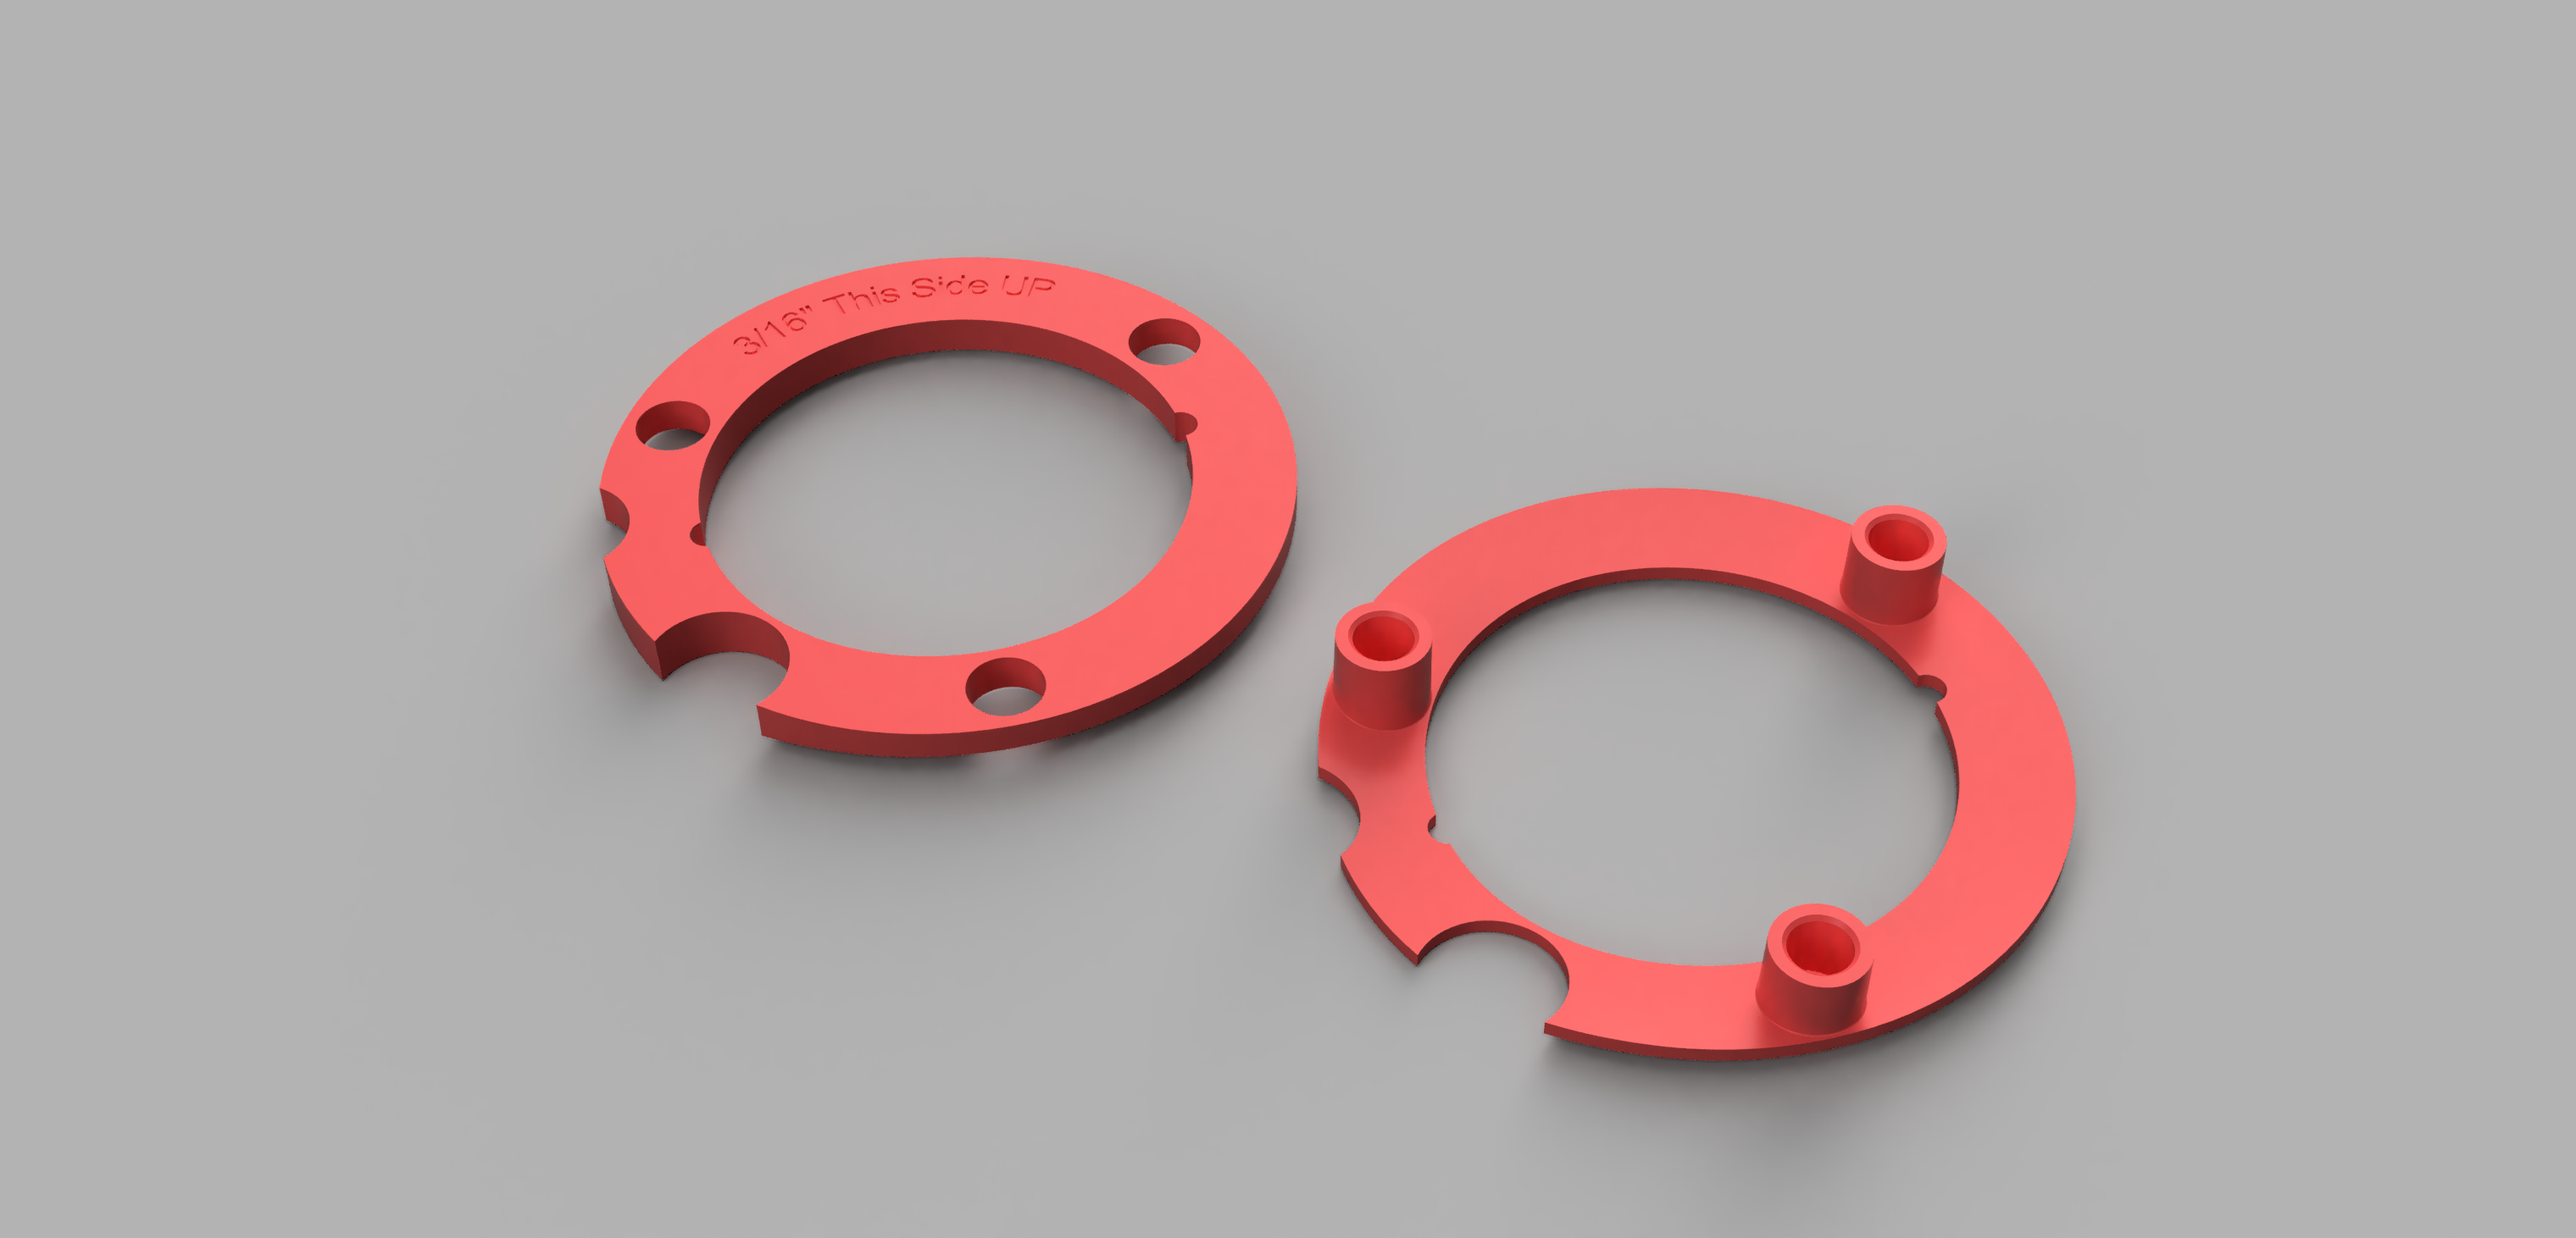
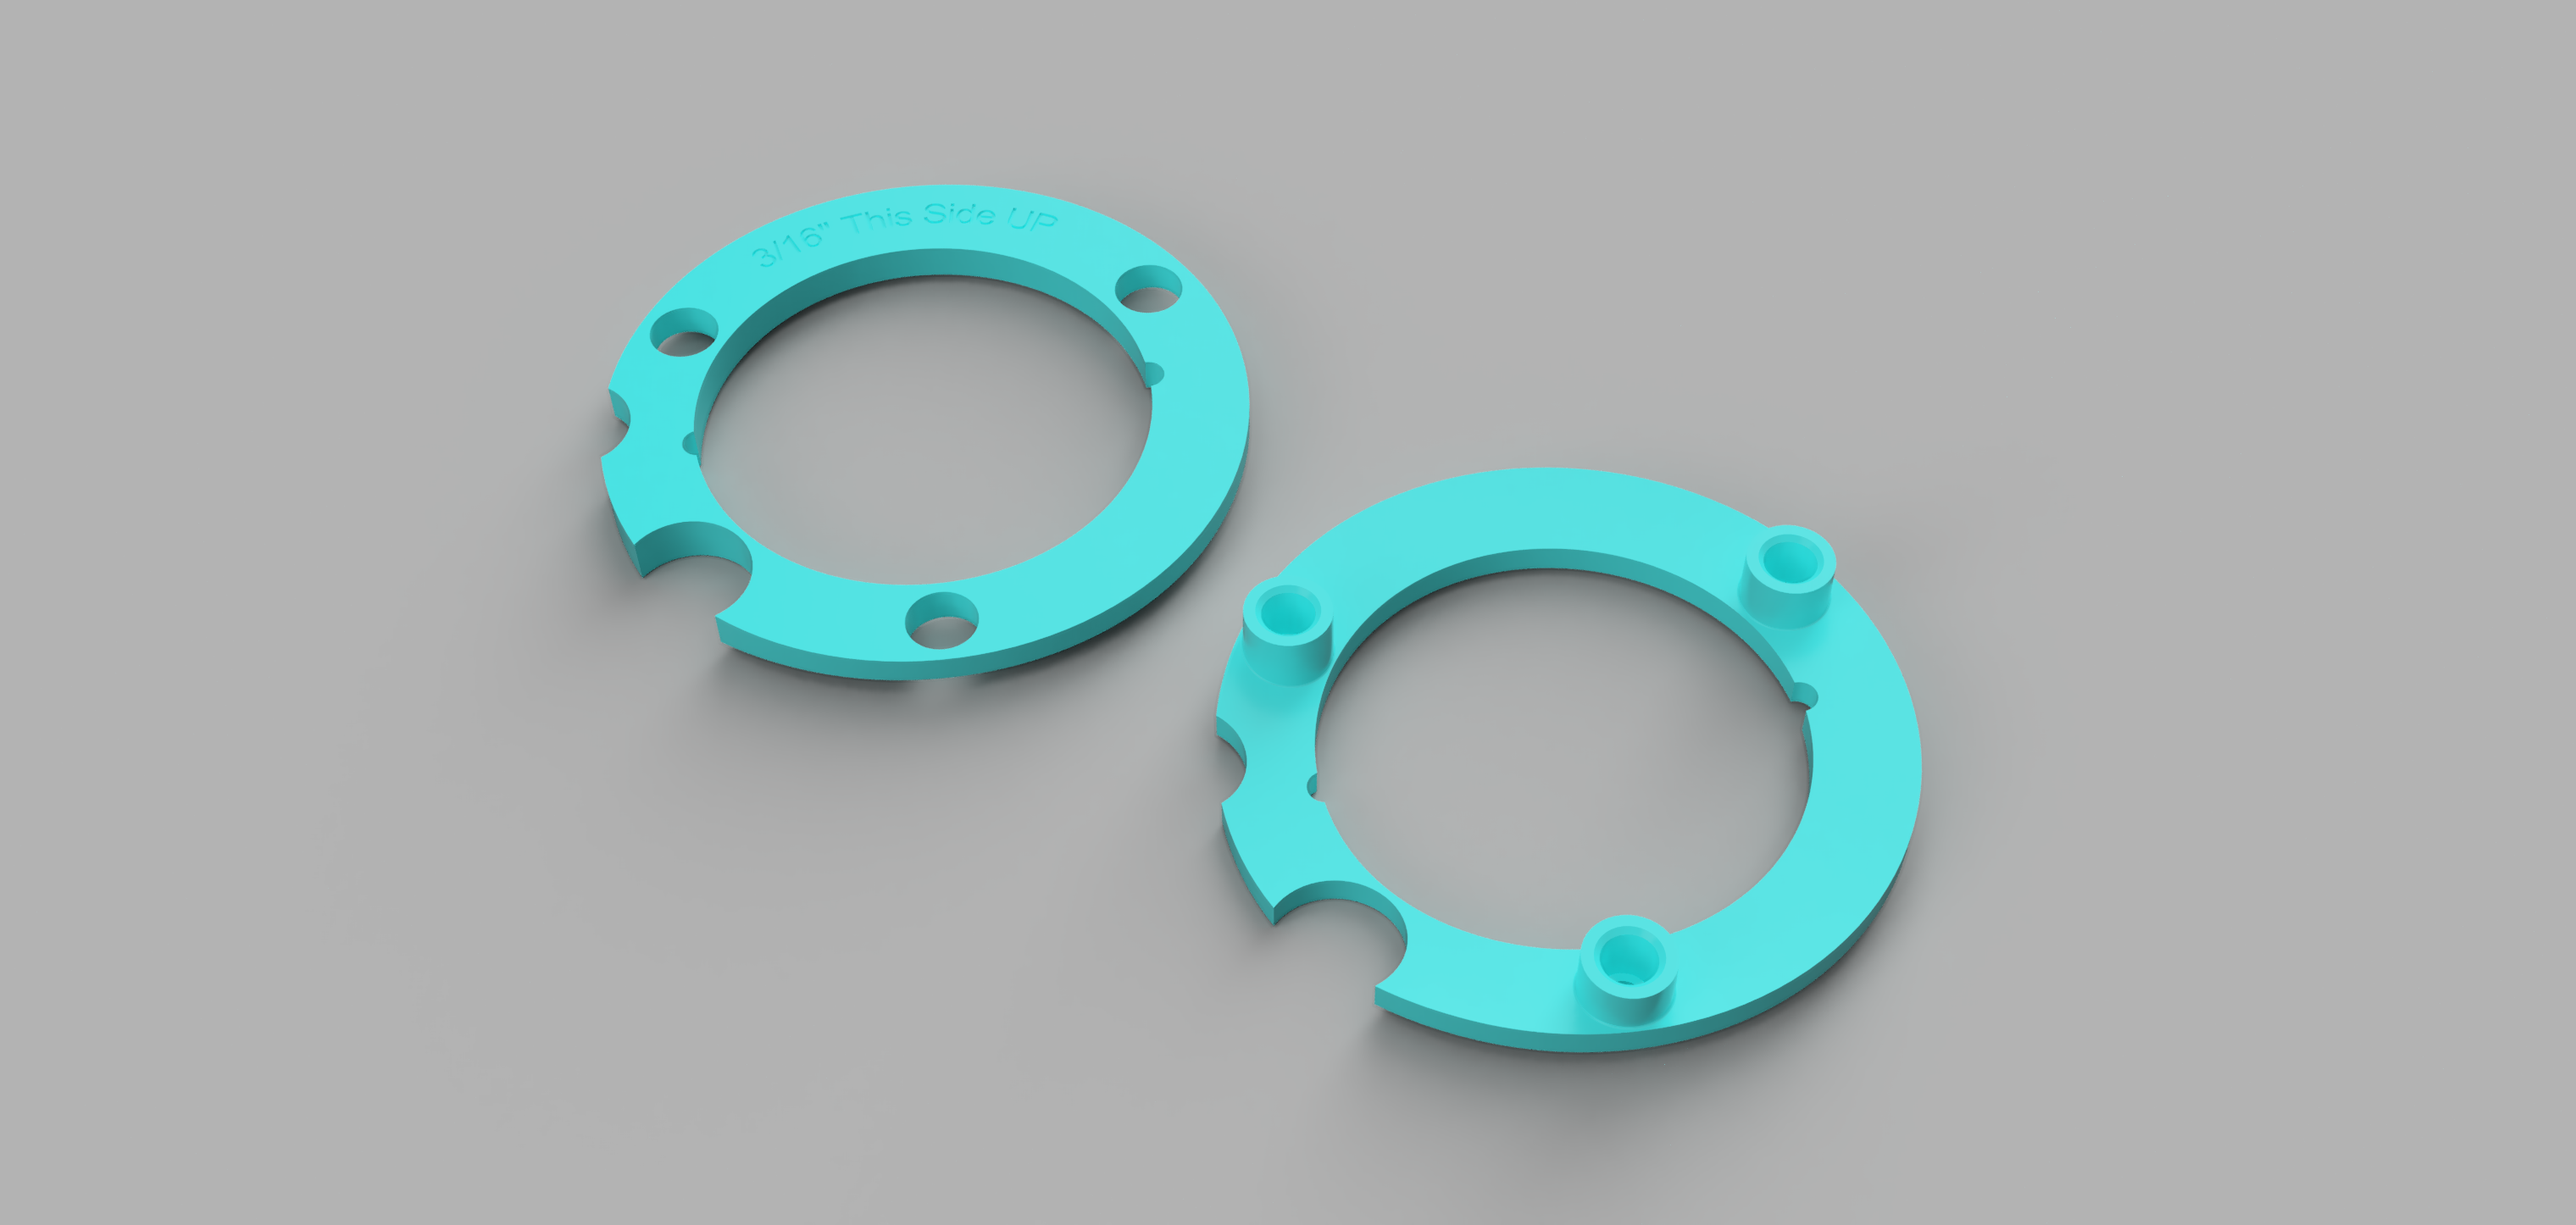
readme update

Changed region(s): [[0.2188, 0.1245, 0.8125, 0.9336]]

diff --git a/README.md b/README.md
@@ -25,7 +25,17 @@ Video Build Guide: https://youtu.be/2FYZF3ZB4hE
 
 Parametric Notch Builder Tool: https://www.printables.com/model/1191100-parametric-notch-builder-tool-for-oem-stubby-gatep
 
+CarVac FDM File Set & Additional Parametric Gateplates: https://www.printables.com/model/1504464-oem-gamecube-controller-notched-gateplates/files
+
 This design is based on, and uses the OEM GCC step file collection made by GearHawkStudios
+
+### Optional PTFE Upgrade:
+
+I have found that when using resin printed gateplates, especially with resin casted stick caps, there can be more friction on the gate against the stick than on a standard controller. I highly recommend applying a layer of PTFE tape around the neck of your stick cap. This small mod can help improve the feel of your gate and enhance the durability of your controller. 
+
+PTFE Tape: https://www.mcmaster.com/6305A51/
+
+Installation Guide: https://youtu.be/KtZ6UY_qpAE
 
 ### Removable Gates and Notched Gateplates
 ![image](https://raw.githubusercontent.com/sean44104/Removable-Gate-OEM/main/Images/image2.png)
